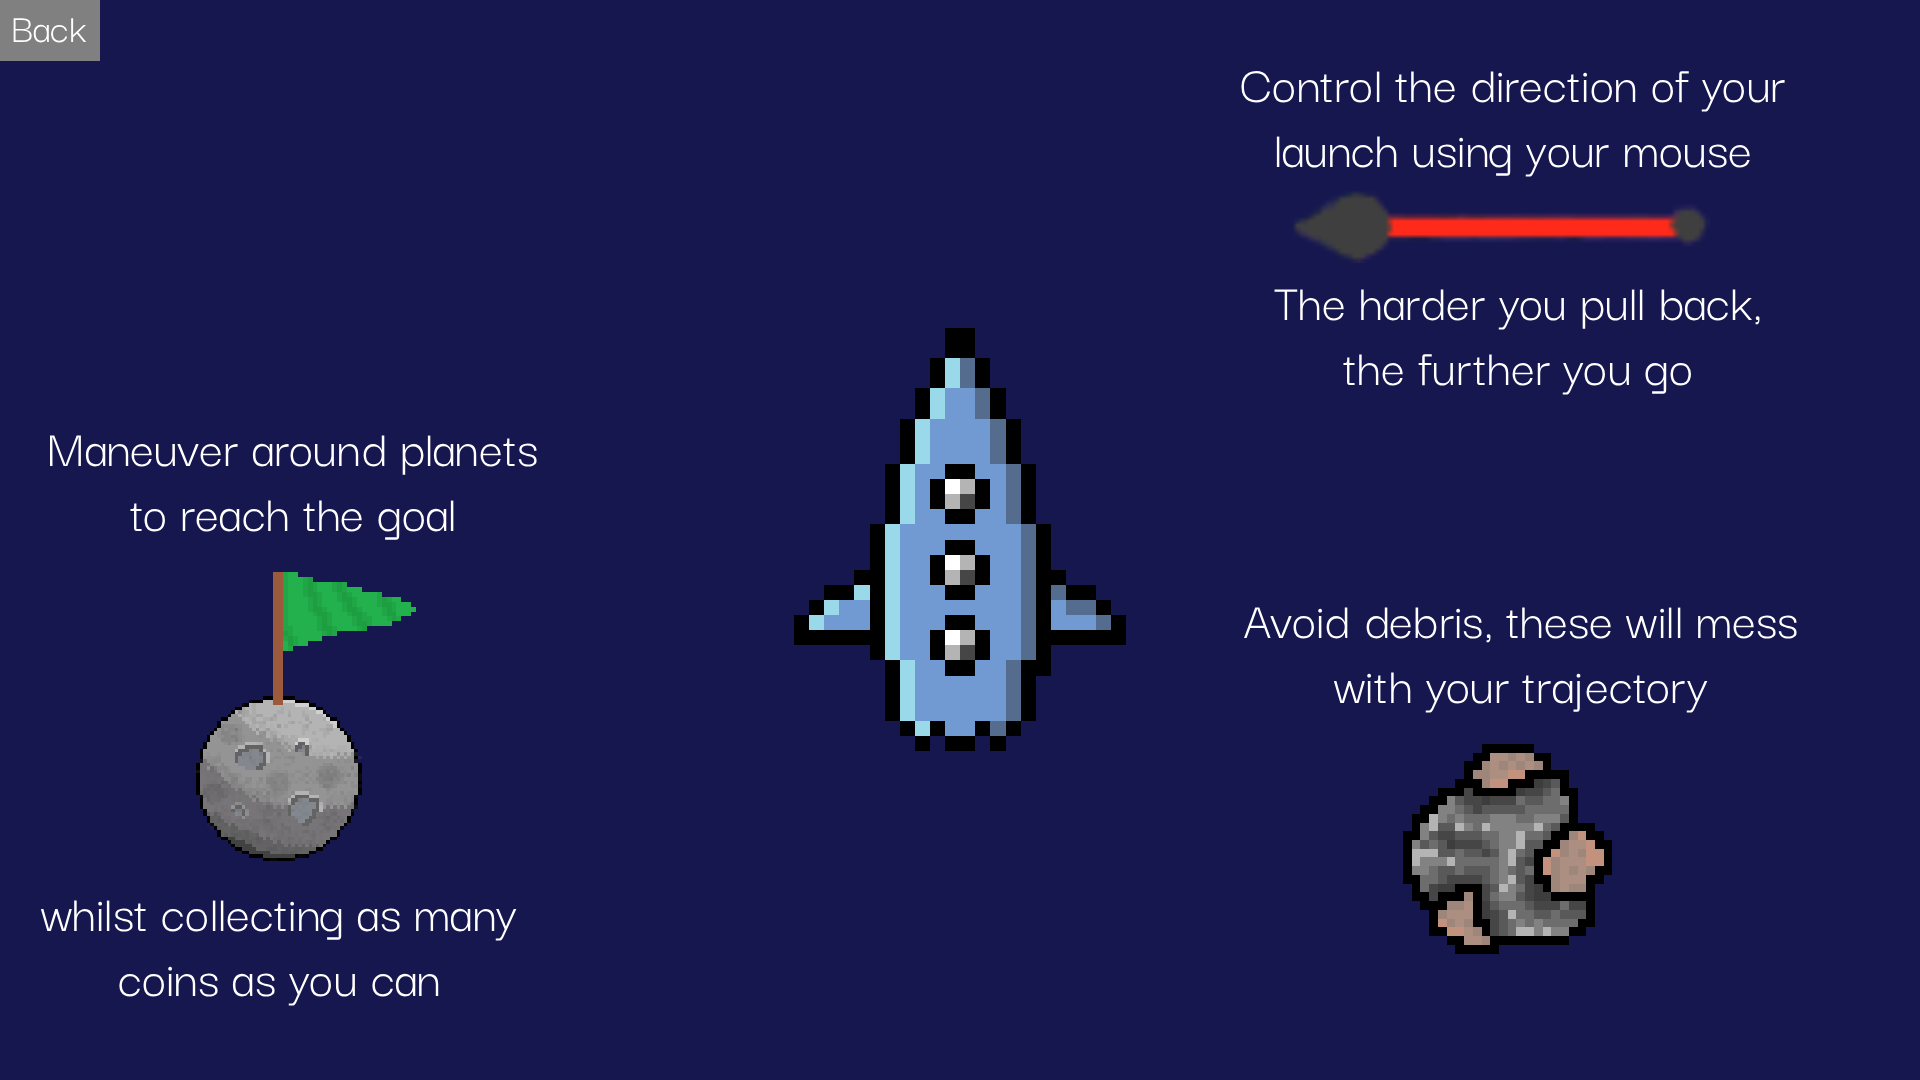
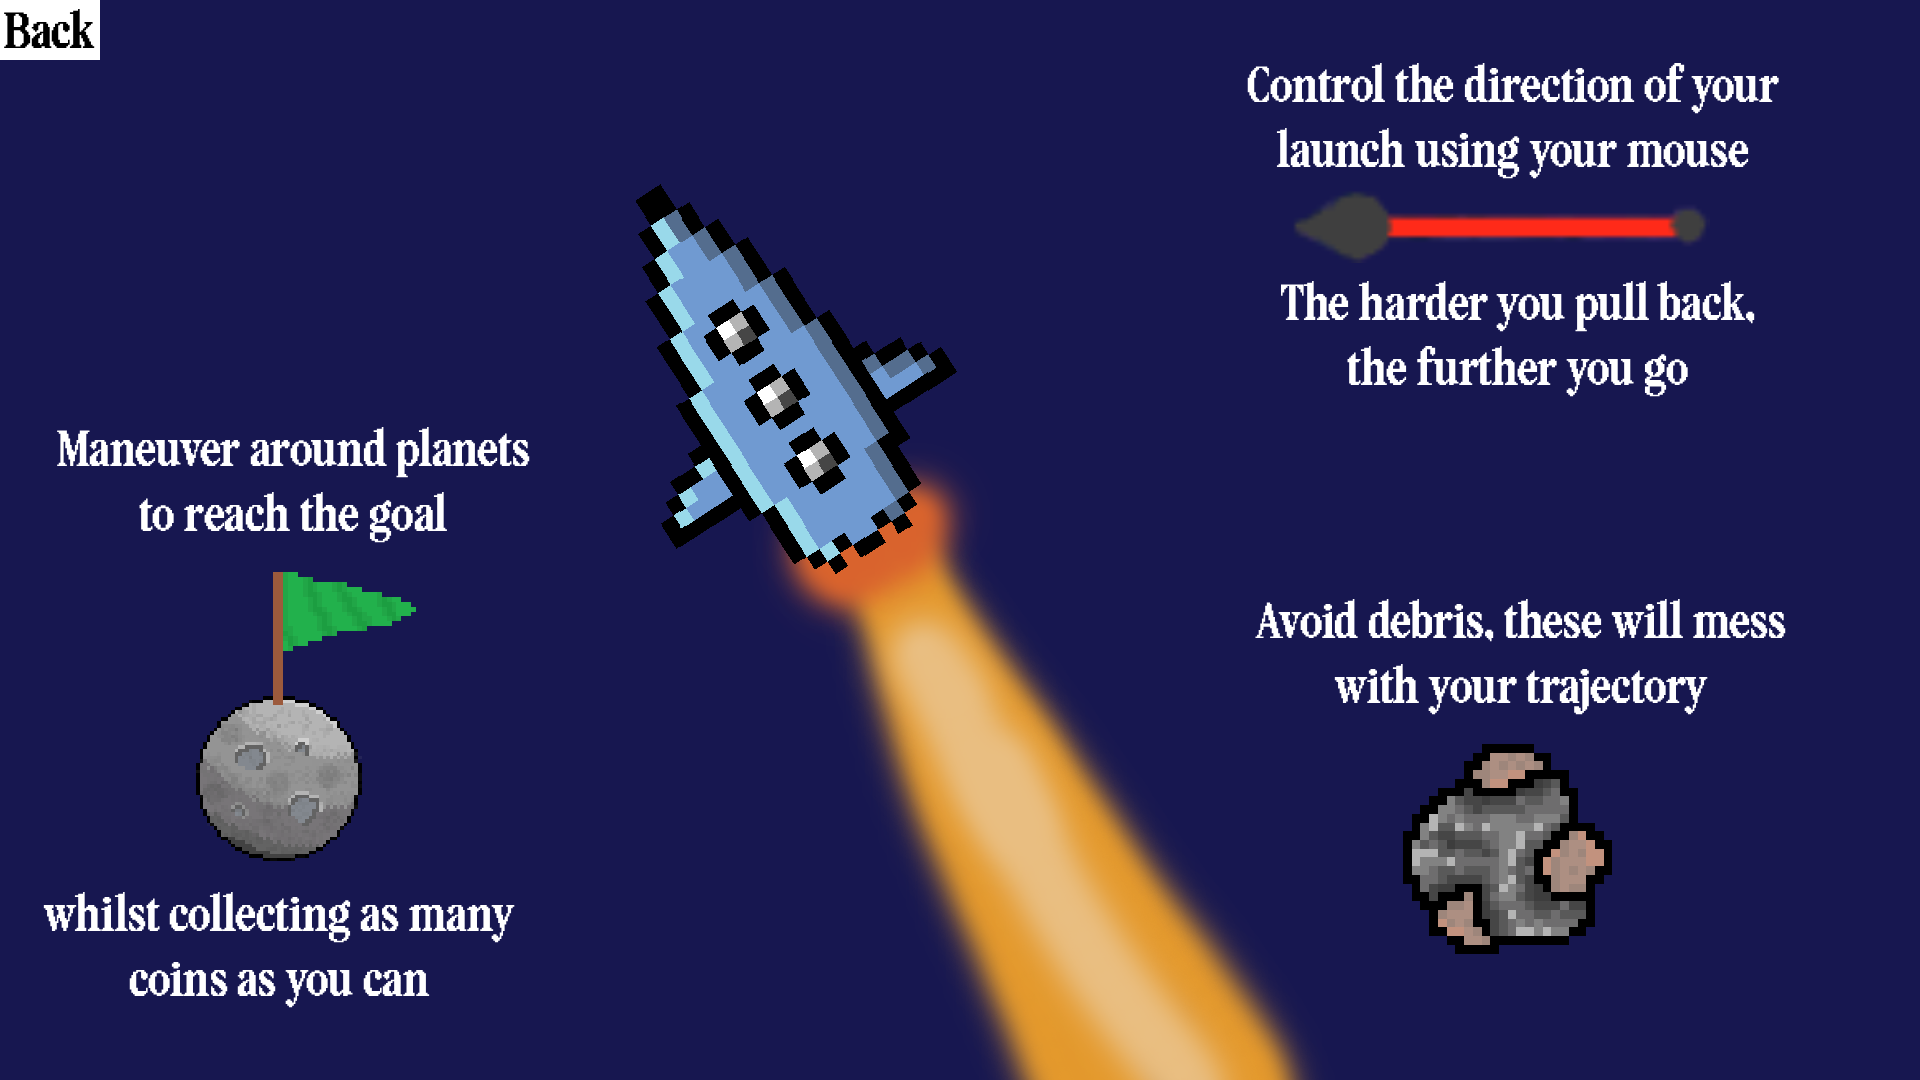
main screen, trail

diff --git a/core/src/main/java/io/github/some_example_name/Main.java b/core/src/main/java/io/github/some_example_name/Main.java
@@ -61,6 +61,7 @@ public class Main extends ApplicationAdapter {
     private Texture debrisTexture3;
     private Texture goalFlagTexture;
     private Texture backgroundTexture;
+    private Texture titlePageTexture;
     private Texture tutorialTexture;
     private SpriteBatch batch;
 
@@ -75,6 +76,7 @@ public class Main extends ApplicationAdapter {
         debrisTexture3 = new Texture(Gdx.files.internal("scrap3.png"));
         goalFlagTexture = new Texture(Gdx.files.internal("goalFlag.png"));
         backgroundTexture = new Texture(Gdx.files.internal("background.png"));
+        titlePageTexture = new Texture(Gdx.files.internal("liftoff.png"));
         tutorialTexture = new Texture(Gdx.files.internal("tutorial.png"));
 
         coinList = new ArrayList<>();
@@ -125,8 +127,8 @@ public class Main extends ApplicationAdapter {
         bufferFrames = 0;
 
         TextButton play = new TextButton("Play", skin);
-        play.setPosition(565,350);
-        play.setSize(150,80);
+        play.setPosition(810,196);
+        play.setSize(300,136);
         play.addListener(new ClickListener() {
             @Override
             public void clicked(InputEvent event, float x, float y) {
@@ -135,8 +137,8 @@ public class Main extends ApplicationAdapter {
         });
 
         TextButton settings = new TextButton("Settings", skin);
-        settings.setPosition(290, 350);
-        settings.setSize(150,80);
+        settings.setPosition(300, 196);
+        settings.setSize(300,136);
         settings.addListener(new ClickListener() {
             @Override
             public void clicked(InputEvent event, float x, float y) {
@@ -145,8 +147,8 @@ public class Main extends ApplicationAdapter {
         });
 
         TextButton tutorial = new TextButton("Tutorial", skin);
-        tutorial.setPosition(840, 350);
-        tutorial.setSize(150,80);
+        tutorial.setPosition(1320, 196);
+        tutorial.setSize(300,136);
         tutorial.addListener(new ClickListener() {
             @Override
             public void clicked(InputEvent event, float x, float y) {
@@ -293,6 +295,7 @@ public class Main extends ApplicationAdapter {
     }
 
     private void drawPot(ShapeRenderer sr){
+        sr.begin(ShapeRenderer.ShapeType.Filled);
         float closedStart = 90f + potTopDegree;
         float closedDegrees = 360f - (potTopDegree * 2f);
 
@@ -301,6 +304,7 @@ public class Main extends ApplicationAdapter {
         for(InvenPlanet p : potPlanets){
             p.draw(sr, p == selectedInvenPlanet, batch);
         }
+        sr.end();
     }
 
     private void drawRingSegment(ShapeRenderer sr, float centerX, float centerY, float innerRadius, float outerRadius, float startAngleDeg, float arcDegrees, Color color) {
@@ -602,15 +606,22 @@ public class Main extends ApplicationAdapter {
                     player.applyForce(mouseForce);
                 }
 
-                player.draw(sr, batch);
-                coinSpawner.draw(sr, batch);
-
+                coinSpawner.draw(sr);
+                sr.end();
+                player.drawTrail(sr);
+                player.draw(batch);
                 drawPot(sr);
                 break;
             case TUTORIAL:
                 batch.begin();
                 batch.setColor(Color.WHITE);
                 batch.draw(tutorialTexture,0,0);
+                batch.end();
+                break;
+            case HOME:
+                batch.begin();
+                batch.setColor(Color.WHITE);
+                batch.draw(titlePageTexture,0,0);
                 batch.end();
                 break;
         }

diff --git a/core/src/main/java/io/github/some_example_name/Player.java b/core/src/main/java/io/github/some_example_name/Player.java
@@ -2,13 +2,14 @@ package io.github.some_example_name;
 
 import com.badlogic.gdx.Gdx;
 import com.badlogic.gdx.graphics.Color;
+import com.badlogic.gdx.graphics.GL20;
 import com.badlogic.gdx.graphics.Texture;
 import com.badlogic.gdx.graphics.g2d.SpriteBatch;
 import com.badlogic.gdx.graphics.g2d.TextureRegion;
 import com.badlogic.gdx.graphics.glutils.ShapeRenderer;
 import com.badlogic.gdx.math.Vector2;
 
-import javax.swing.*;
+import java.util.ArrayList;
 import java.util.List;
 
 public class Player {
@@ -17,13 +18,14 @@ public class Player {
     Vector2 position;
     Vector2 prevpos;
     int rad;
-    Trajectory trail;
+    Trajectory traj;
     boolean launched;
     boolean launchAvailable;
     float distanceToPlanet;
     Texture playerTexture;
     TextureRegion player;
     Vector2 movementVector;
+    List<Vector2> trail;
 
     public Player(int x, int y, int rad, Texture playerTexture){
         position = new Vector2();
@@ -40,6 +42,7 @@ public class Player {
         accel.set(0,0);
         vel.set(0,0);
         distanceToPlanet = 9999;
+        trail = new ArrayList<>();
     }
 
     public double getAngle(Vector2 vector){
@@ -52,19 +55,36 @@ public class Player {
         position.add(vel);
         movementVector.set(position.cpy().sub(prevpos));
         prevpos.set(position.cpy());
+
+        trail.add(prevpos.cpy());
     }
 
     public void applyForce(Vector2 force) {
         vel.add(force);
     }
 
-    public void draw(ShapeRenderer sr, SpriteBatch batch) {
-        sr.setColor(Color.WHITE);
-        //sr.circle(position.x, position.y,rad);
+    public void draw(SpriteBatch batch) {
         batch.begin();
         batch.setColor(Color.WHITE);
         batch.draw(player,position.x-10,position.y-13, 11, 14, 22, 28, 1f, 1f, (float) getAngle(movementVector)-90f);
         batch.end();
+    }
+
+    public void drawTrail(ShapeRenderer sr){
+        Gdx.gl.glEnable(GL20.GL_BLEND);
+        Gdx.gl.glBlendFunc(GL20.GL_SRC_ALPHA, GL20.GL_ONE_MINUS_SRC_ALPHA);
+        sr.begin(ShapeRenderer.ShapeType.Filled);
+        sr.setColor(1f, 0.5f, 0f, 0.1f);
+
+        for (int i = 0; i < trail.size(); i++) {
+            if (trail.size() - 200 < i) {
+                sr.setColor(1f, 0.5f, 0f, 1f-(trail.size()-i)/100f);
+                sr.circle(trail.get(i).x, trail.get(i).y, 2);
+            }
+        }
+
+        sr.end();
+        Gdx.gl.glDisable(GL20.GL_BLEND);
     }
 
     public Vector2 getPosition(){
@@ -72,12 +92,12 @@ public class Player {
     }
 
     public void genTrail(List<RealPlanet> planets, ShapeRenderer sr, Vector2 mouseForce){
-        trail = new Trajectory(vel, position, planets, sr, mouseForce, rad);
-        trail.generate();
+        traj = new Trajectory(vel, position, planets, sr, mouseForce, rad);
+        traj.generate();
     }
 
-    public Trajectory getTrail(){
-        return trail;
+    public Trajectory getTraj(){
+        return traj;
     }
 
     public boolean checkColPlanet(RealPlanet target){

diff --git a/core/src/main/java/io/github/some_example_name/CoinSpawner.java b/core/src/main/java/io/github/some_example_name/CoinSpawner.java
@@ -1,8 +1,6 @@
 package io.github.some_example_name;
 
 import com.badlogic.gdx.graphics.Color;
-import com.badlogic.gdx.graphics.Texture;
-import com.badlogic.gdx.graphics.g2d.Batch;
 import com.badlogic.gdx.graphics.glutils.ShapeRenderer;
 import com.badlogic.gdx.math.Vector2;
 
@@ -17,7 +15,7 @@ public class CoinSpawner {
         totalcoins = 0;
     }
 
-    public void draw(ShapeRenderer sr, Batch batch){
+    public void draw(ShapeRenderer sr){
         sr.setColor(Color.GOLD);
         for(Coin coin : coinList){
             sr.circle(coin.getPos().x, coin.getPos().y, coin.getSize());
